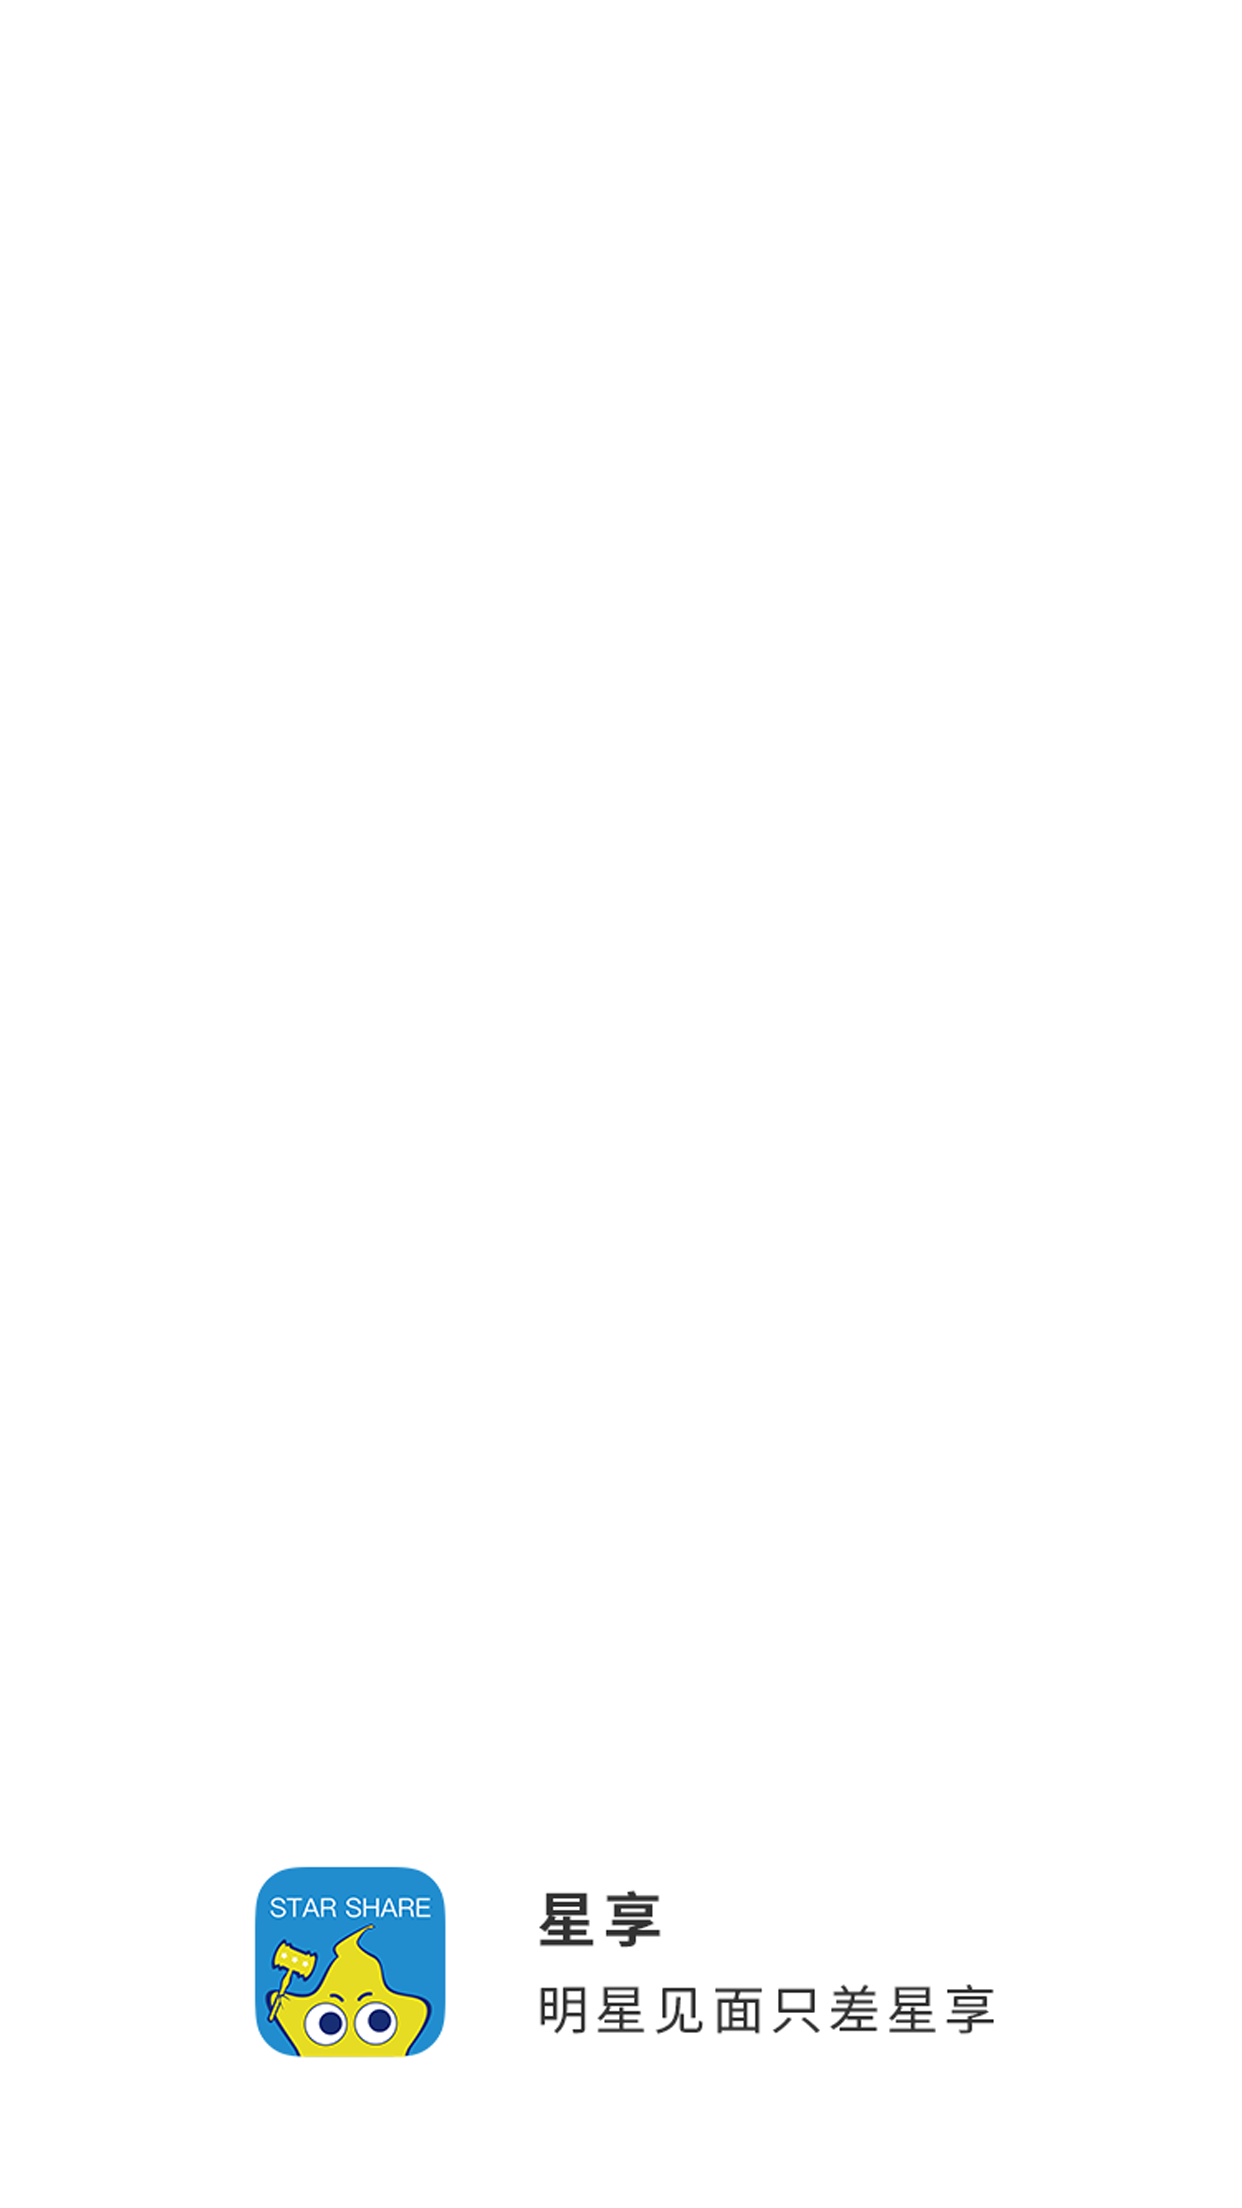
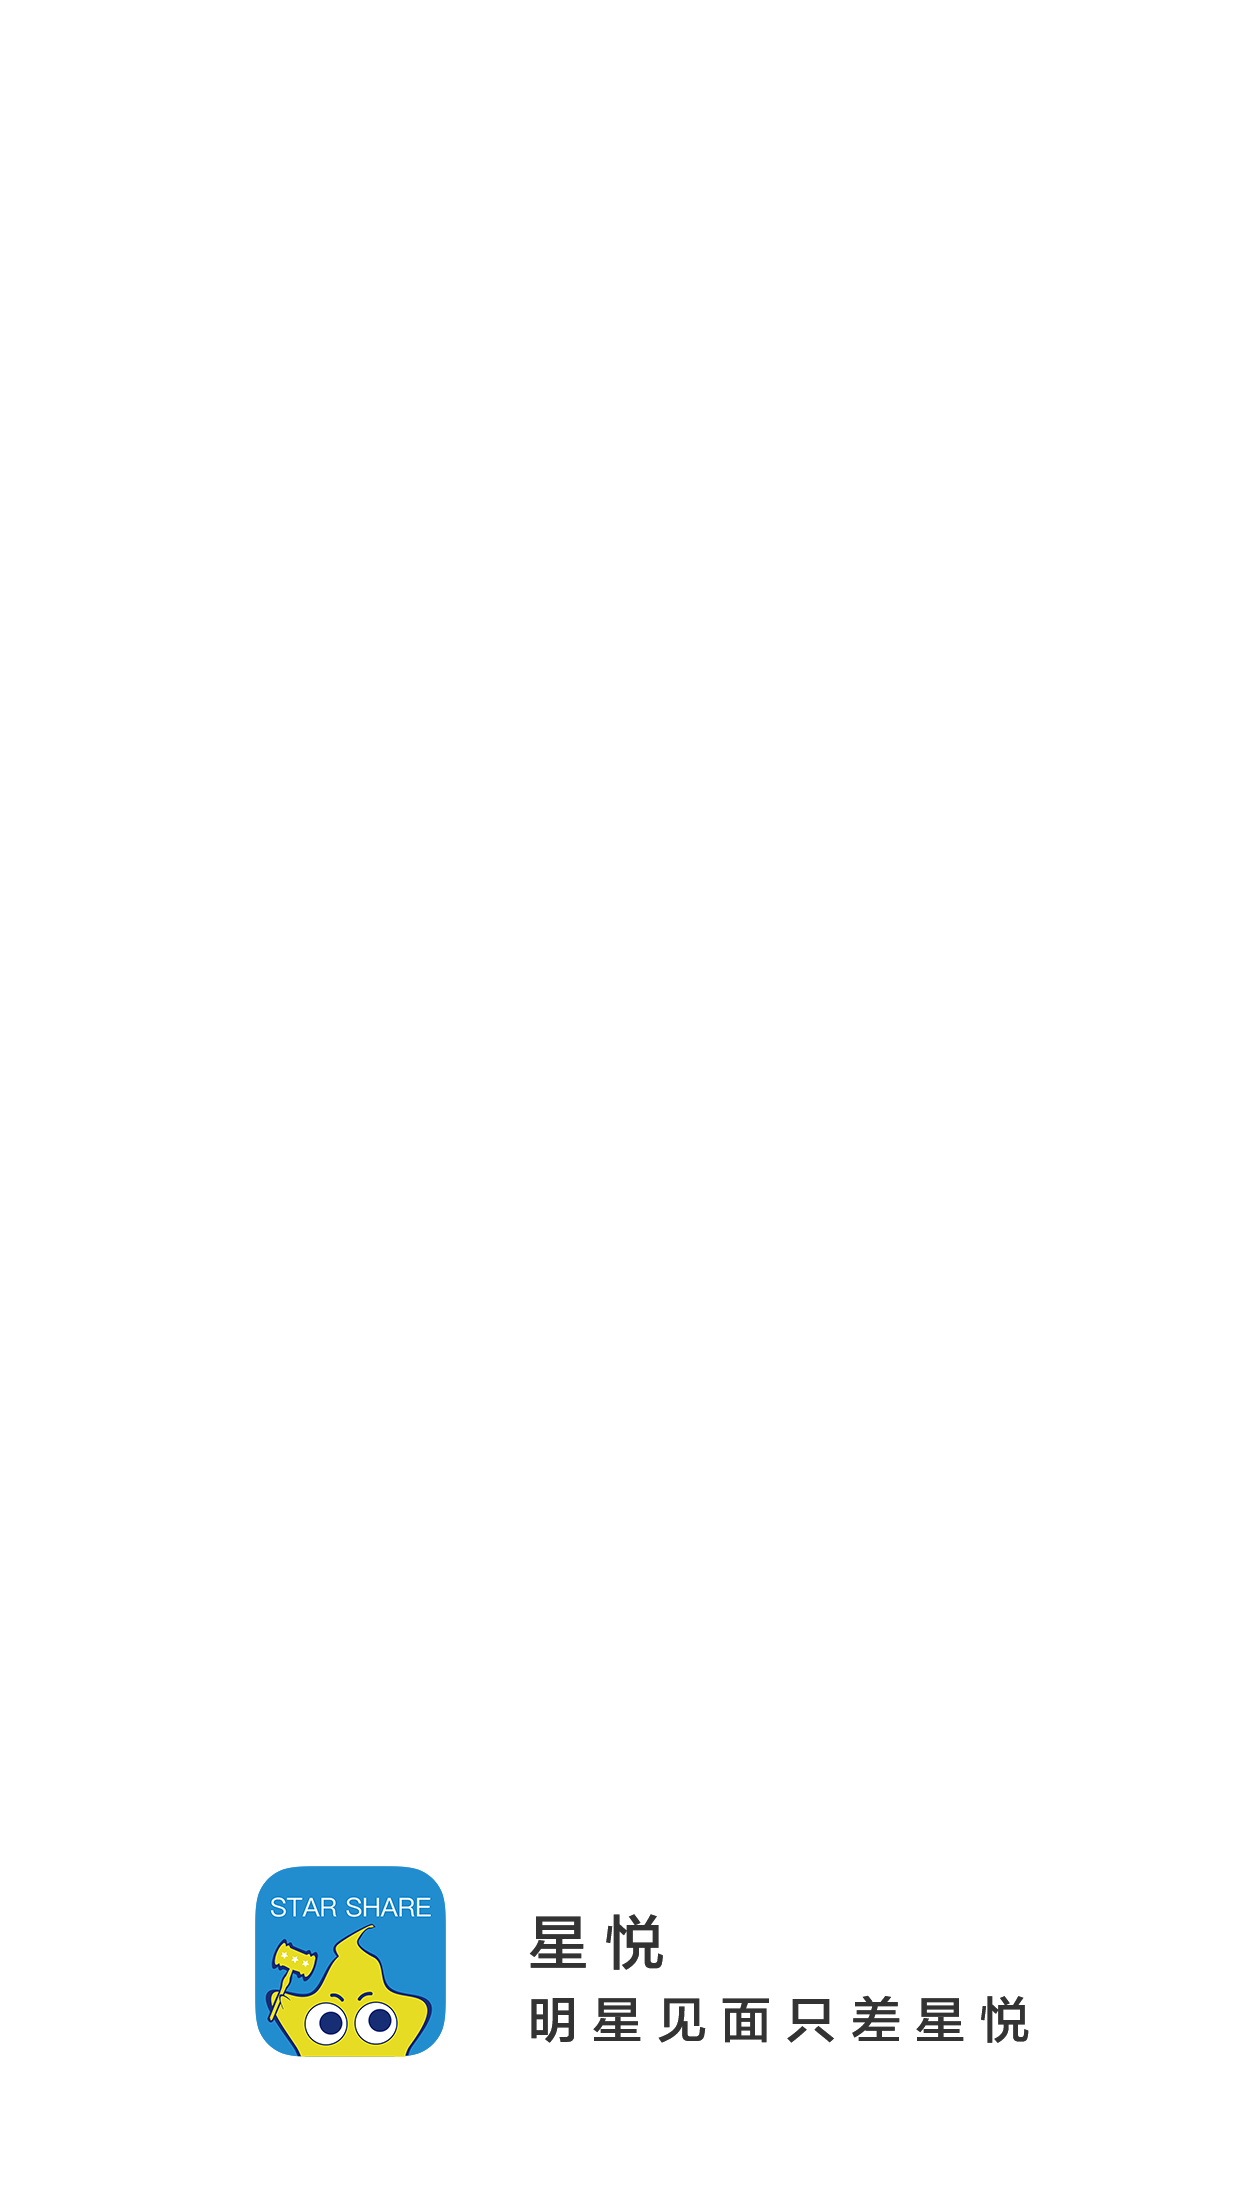
fix launchImage 星说fix星悦

Changed region(s): [[0.4283, 0.8438, 0.8261, 0.9375], [0.2142, 0.8438, 0.3671, 0.9375]]

diff --git a/iOSStar/Scenes/Market/Controller/PublisherPageViewController.swift b/iOSStar/Scenes/Market/Controller/PublisherPageViewController.swift
@@ -51,9 +51,9 @@ class PublisherPageViewController: UIViewController {
     @IBAction func shareAction(_ sender: Any) {
         
         let view : ShareView = Bundle.main.loadNibNamed("ShareView", owner: self, options: nil)?.last as! ShareView
-        view.title = "星说"
+        view.title = "星悦"
         view.thumbImage = "QQ"
-        view.descr = "关于星说"
+        view.descr = "关于星悦"
         view.webpageUrl = "http://www.baidu.com"
         view.shareViewController(viewController: self)
 //        UMSocialUIManager.showShareMenuViewInWindow { (platform, userInfo) in

diff --git a/iOSStar/Model/MarketModel/MarketRequestModel.swift b/iOSStar/Model/MarketModel/MarketRequestModel.swift
@@ -40,7 +40,7 @@ class StarListRequestModel: MarketBaseModel {
 class SendCommentModel: BaseModel {
     var symbol = ""
     var fans_id =  "\(StarUserModel.getCurrentUser()?.userinfo?.id ?? 0)"
-    var nick_name = StarUserModel.getCurrentUser()?.userinfo?.agentName ?? "星说用户"
+    var nick_name = StarUserModel.getCurrentUser()?.userinfo?.agentName ?? "星悦用户"
     var comments = ""
     
     var head_url = StarUserModel.getCurrentUser()?.userinfo?.avatar_Large ?? "http://tva1.sinaimg.cn/crop.0.0.512.512.180/686fe7e0jw8f114yfoiqkj20e80e8glw.jpg"

diff --git a/iOSStar/Scenes/User/Controller/UserVC.swift b/iOSStar/Scenes/User/Controller/UserVC.swift
@@ -77,7 +77,7 @@ class UserVC: BaseCustomTableViewController  {
                 if model.nick_name == "" {
                     let nameUid = StarUserModel.getCurrentUser()?.userinfo?.id
                     let stringUid = String.init(format: "%d", nameUid!)
-                    self.nickNameLabel?.text = "星说用户" + stringUid
+                    self.nickNameLabel?.text = "星悦用户" + stringUid
                 } else  {
                     self.nickNameLabel?.text = model.nick_name
                 }

diff --git a/iOSStar/Scenes/News/Controller/NewsDetailViewController.swift b/iOSStar/Scenes/News/Controller/NewsDetailViewController.swift
@@ -33,9 +33,9 @@ class NewsDetailViewController: UIViewController {
     @IBAction func shareAction(_ sender: Any) {
         
         let view : ShareView = Bundle.main.loadNibNamed("ShareView", owner: self, options: nil)?.last as! ShareView
-        view.title = "星说"
+        view.title = "星悦"
         view.thumbImage = "QQ"
-        view.descr = "关于星说"
+        view.descr = "关于星悦"
         view.webpageUrl = "http://www.baidu.com"
         view.shareViewController(viewController: self)
 

diff --git a/iOSStar/Scenes/Market/Controller/OrderStarViewController.swift b/iOSStar/Scenes/Market/Controller/OrderStarViewController.swift
@@ -697,9 +697,9 @@ extension OrderStarViewController {
         print("点击了右边按钮");
         
         let view : ShareView = Bundle.main.loadNibNamed("ShareView", owner: self, options: nil)?.last as! ShareView
-        view.title = "星说"
+        view.title = "星悦"
         view.thumbImage = "QQ"
-        view.descr = "关于星说"
+        view.descr = "关于星悦"
         view.webpageUrl = "http://www.baidu.com"
         view.shareViewController(viewController: self)
         

diff --git a/iOSStar/Scenes/User/Controller/UserInfoVC.swift b/iOSStar/Scenes/User/Controller/UserInfoVC.swift
@@ -68,7 +68,7 @@ class UserInfoVC: UITableViewController ,UIImagePickerControllerDelegate ,UINavi
         if userInfoData?.nick_name == "" {
             let nameUid = StarUserModel.getCurrentUser()?.userinfo?.id
             let stringUid = String.init(format: "%d", nameUid!)
-            nickName.text = "星说用户" + stringUid
+            nickName.text = "星悦用户" + stringUid
         } else {
             nickName.text = userInfoData?.nick_name
         }

diff --git a/iOSStar/General/Helper/AppConfigHelper.swift b/iOSStar/General/Helper/AppConfigHelper.swift
@@ -305,7 +305,7 @@ class AppConfigHelper: NSObject {
         localNotify.timeZone = NSTimeZone.default
         localNotify.soundName = UILocalNotificationDefaultSoundName
         if #available(iOS 8.2, *) {
-            localNotify.alertTitle = "星说"
+            localNotify.alertTitle = "星悦"
         } else {
             // Fallback on earlier versions
         }
